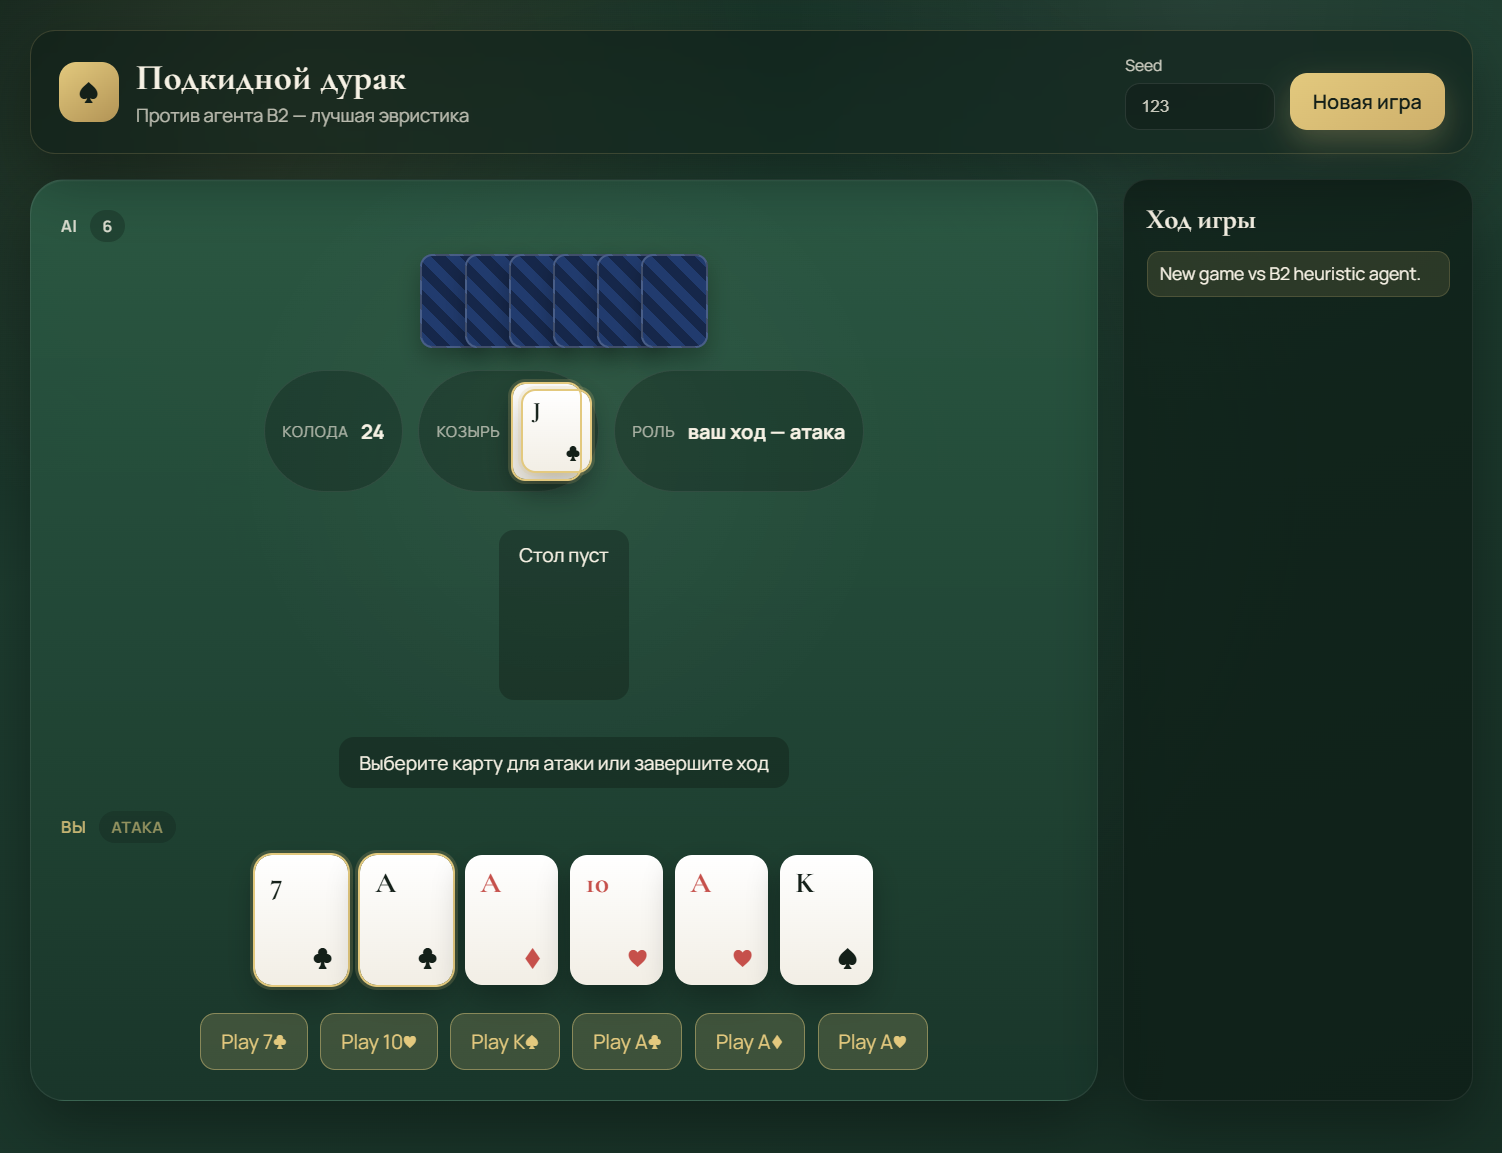
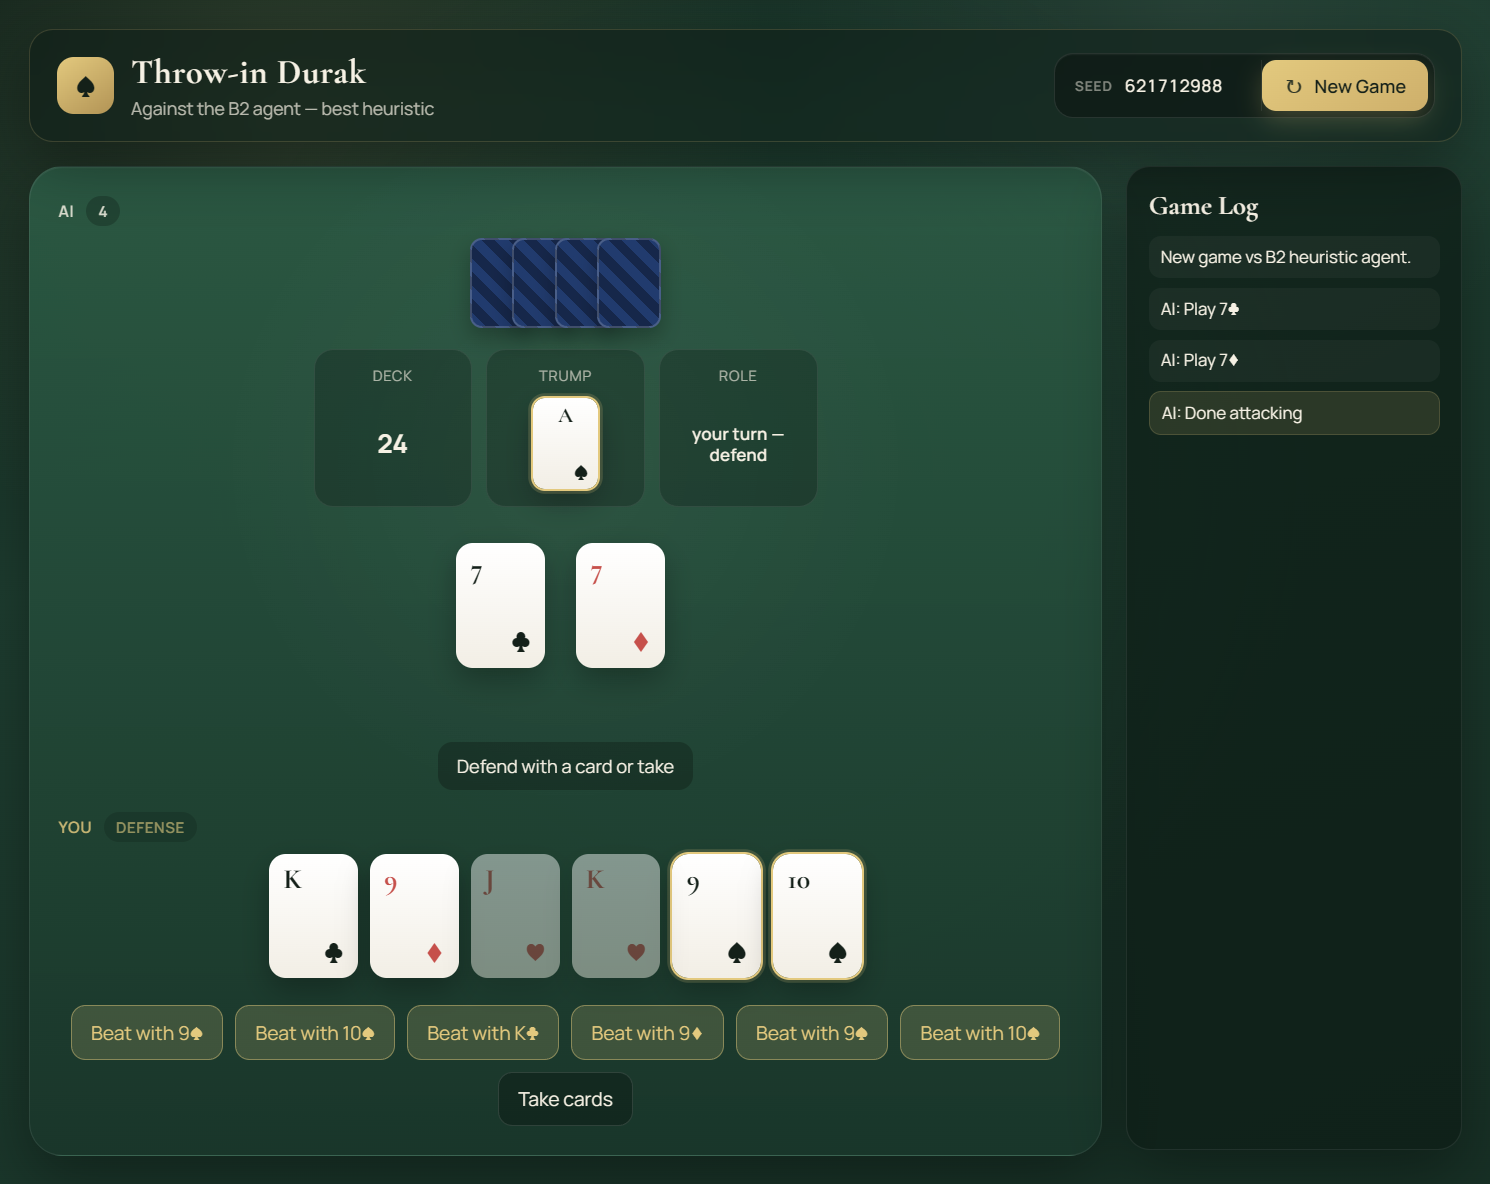
Update UI

diff --git a/durak/web/styles.css b/durak/web/styles.css
@@ -89,43 +89,116 @@ body {
 
 .topbar-actions {
   display: flex;
-  align-items: end;
-  gap: 12px;
+  align-items: center;
+}
+
+.game-controls {
+  display: flex;
+  align-items: stretch;
+  padding: 5px;
+  border-radius: 16px;
+  background: rgba(0, 0, 0, 0.32);
+  border: 1px solid rgba(255, 255, 255, 0.1);
+  box-shadow: inset 0 1px 0 rgba(255, 255, 255, 0.04);
 }
 
 .seed-field {
   display: flex;
-  flex-direction: column;
-  gap: 6px;
-  font-size: 0.78rem;
-  opacity: 0.8;
+  align-items: center;
+  gap: 10px;
+  flex: 0 1 auto;
+  min-width: 0;
+  padding: 0 14px 0 12px;
+  border-right: 1px solid rgba(255, 255, 255, 0.08);
+}
+
+.seed-label {
+  font-size: 0.7rem;
+  font-weight: 600;
+  text-transform: uppercase;
+  letter-spacing: 0.08em;
+  color: rgba(247, 241, 227, 0.5);
+  white-space: nowrap;
+  flex-shrink: 0;
 }
 
 .seed-field input {
-  width: 120px;
-  padding: 10px 12px;
-  border-radius: 12px;
-  border: 1px solid rgba(255, 255, 255, 0.12);
-  background: rgba(0, 0, 0, 0.25);
+  width: 11ch;
+  min-width: 11ch;
+  max-width: 16ch;
+  padding: 11px 0;
+  border: none;
+  border-radius: 0;
+  background: transparent;
   color: var(--cream);
+  font: inherit;
+  font-size: 0.9rem;
+  font-weight: 500;
+  font-variant-numeric: tabular-nums;
+  letter-spacing: 0.01em;
+}
+
+.seed-field input::placeholder {
+  color: rgba(247, 241, 227, 0.28);
+  font-weight: 400;
+}
+
+.seed-field input:focus {
+  outline: none;
+}
+
+.seed-field input:focus-visible {
+  outline: none;
+}
+
+.game-controls:focus-within {
+  border-color: rgba(232, 200, 114, 0.35);
+  box-shadow:
+    inset 0 1px 0 rgba(255, 255, 255, 0.04),
+    0 0 0 3px rgba(232, 200, 114, 0.12);
 }
 
 .btn {
+  display: inline-flex;
+  align-items: center;
+  justify-content: center;
+  gap: 8px;
   border: none;
-  border-radius: 14px;
-  padding: 12px 18px;
+  border-radius: 12px;
+  padding: 11px 18px;
   font: inherit;
   font-weight: 600;
+  font-size: 0.95rem;
   cursor: pointer;
-  transition: transform 0.15s ease, box-shadow 0.15s ease;
+  transition: transform 0.15s ease, box-shadow 0.15s ease, filter 0.15s ease;
+  white-space: nowrap;
 }
 
 .btn:hover { transform: translateY(-1px); }
 
+.btn:active {
+  transform: translateY(0);
+}
+
+.btn-icon {
+  display: grid;
+  place-items: center;
+  width: 18px;
+  height: 18px;
+  font-size: 1.05rem;
+  line-height: 1;
+  opacity: 0.85;
+}
+
 .btn-primary {
   background: linear-gradient(145deg, var(--gold), #d4ae5f);
   color: var(--ink);
-  box-shadow: 0 10px 24px rgba(232, 200, 114, 0.25);
+  box-shadow: 0 8px 20px rgba(232, 200, 114, 0.22);
+}
+
+.btn-primary:hover {
+  filter: brightness(1.04);
+  box-shadow: 0 10px 24px rgba(232, 200, 114, 0.3);
 }
 
 .table-area {
@@ -194,27 +267,60 @@ body {
 }
 
 .info-strip {
-  display: flex;
+  display: grid;
+  grid-template-columns: repeat(3, minmax(108px, 1fr));
   gap: 12px;
-  flex-wrap: wrap;
-  justify-content: center;
+  width: min(100%, 420px);
 }
 
 .info-pill {
-  display: flex;
+  display: grid;
+  grid-template-rows: 1.25rem 76px;
+  gap: 8px;
   align-items: center;
-  gap: 10px;
-  padding: 10px 14px;
-  border-radius: 999px;
+  justify-items: center;
+  padding: 12px 14px 14px;
+  border-radius: 16px;
   background: rgba(0, 0, 0, 0.22);
   border: 1px solid rgba(255, 255, 255, 0.08);
+  text-align: center;
 }
 
 .info-pill .label {
+  display: flex;
+  align-items: center;
+  justify-content: center;
+  width: 100%;
+  height: 1.25rem;
   font-size: 0.75rem;
   opacity: 0.65;
   text-transform: uppercase;
   letter-spacing: 0.06em;
+  line-height: 1;
+}
+
+.info-pill .value {
+  display: flex;
+  align-items: center;
+  justify-content: center;
+  width: 100%;
+  height: 76px;
+  margin: 0;
+  font-size: 1.35rem;
+  font-weight: 700;
+  line-height: 1.2;
+}
+
+.info-pill.role-pill .value {
+  font-size: 0.88rem;
+  font-weight: 600;
+  letter-spacing: 0.01em;
+  line-height: 1.25;
+  padding: 0 4px;
+}
+
+.info-pill .trump-value {
+  height: 76px;
 }
 
 .battle-table {
@@ -439,4 +545,31 @@ body {
 
   .app { padding: 12px; }
   .table-area { min-height: auto; padding: 16px; }
+
+  .topbar {
+    flex-direction: column;
+    align-items: stretch;
+    gap: 14px;
+  }
+
+  .topbar-actions {
+    justify-content: stretch;
+  }
+
+  .game-controls {
+    width: 100%;
+  }
+
+  .seed-field {
+    flex: 1;
+  }
+
+  .seed-field input {
+    width: 100%;
+    min-width: 0;
+  }
+
+  .btn-primary {
+    flex-shrink: 0;
+  }
 }

diff --git a/durak/web/index.html b/durak/web/index.html
@@ -21,11 +21,16 @@
         </div>
       </div>
       <div class="topbar-actions">
-        <label class="seed-field">
-          Seed
-          <input id="seed" type="number" min="0" placeholder="random">
-        </label>
-        <button id="new-game" class="btn btn-primary">New Game</button>
+        <div class="game-controls">
+          <label class="seed-field">
+            <span class="seed-label">Seed</span>
+            <input id="seed" type="text" inputmode="numeric" placeholder="Random" autocomplete="off" spellcheck="false">
+          </label>
+          <button id="new-game" class="btn btn-primary" type="button">
+            <span class="btn-icon" aria-hidden="true">↻</span>
+            New Game
+          </button>
+        </div>
       </div>
     </header>
 
@@ -42,15 +47,15 @@
         <div class="info-strip">
           <div class="info-pill">
             <span class="label">Deck</span>
-            <strong id="deck-count">24</strong>
+            <strong id="deck-count" class="value">24</strong>
           </div>
           <div class="info-pill trump-pill">
             <span class="label">Trump</span>
-            <div id="trump-card" class="card trump-card mini"></div>
+            <div id="trump-card" class="value trump-value"></div>
           </div>
-          <div class="info-pill">
+          <div class="info-pill role-pill">
             <span class="label">Role</span>
-            <strong id="role">—</strong>
+            <p id="role" class="value">—</p>
           </div>
         </div>
 

diff --git a/durak/web/app.js b/durak/web/app.js
@@ -138,10 +138,28 @@ async function api(path, options = {}) {
   return res.json();
 }
 
+function randomSeed() {
+  const buf = new Uint32Array(1);
+  crypto.getRandomValues(buf);
+  return buf[0];
+}
+
+function resolveSeed(raw) {
+  if (!raw) return { seed: randomSeed(), random: true };
+  const n = Number(raw);
+  if (!Number.isFinite(n) || n < 0) return { seed: randomSeed(), random: true };
+  return { seed: Math.trunc(n), random: false };
+}
+
 async function newGame() {
-  const seedRaw = $('#seed').value.trim();
-  const body = seedRaw ? { seed: Number(seedRaw) } : {};
-  const state = await api('/api/new', { method: 'POST', body: JSON.stringify(body) });
+  const input = $('#seed');
+  const { seed, random } = resolveSeed(input.value.trim());
+  const state = await api('/api/new', {
+    method: 'POST',
+    body: JSON.stringify({ seed }),
+  });
+  if (state.seed != null) input.value = String(state.seed);
+  else if (random) input.value = String(seed);
   render(state);
 }
 

diff --git a/durak/src/web_server.cpp b/durak/src/web_server.cpp
@@ -1,8 +1,10 @@
 #include <cstdlib>
 #include <cstring>
+#include <chrono>
 #include <mutex>
 #include <string>
 
+#include "eval.hpp"
 #include "httplib.h"
 #include "play_session.hpp"
 
@@ -13,13 +15,20 @@ namespace {
 std::mutex g_mtx;
 PlaySession g_session;
 
-std::uint64_t parse_seed(const std::string& body) {
+bool try_parse_seed(const std::string& body, std::uint64_t& seed) {
     const char* key = "\"seed\"";
     const std::size_t pos = body.find(key);
-    if (pos == std::string::npos) return 0;
+    if (pos == std::string::npos) return false;
     const std::size_t colon = body.find(':', pos);
-    if (colon == std::string::npos) return 0;
-    return std::strtoull(body.c_str() + colon + 1, nullptr, 10);
+    if (colon == std::string::npos) return false;
+    seed = std::strtoull(body.c_str() + colon + 1, nullptr, 10);
+    return true;
+}
+
+std::uint64_t fresh_seed() {
+    const auto t = std::chrono::high_resolution_clock::now().time_since_epoch().count();
+    static std::uint64_t ctr = 0;
+    return splitmix(static_cast<std::uint64_t>(t) ^ (++ctr * 0x9E3779B97F4A7C15ull)) & 0xFFFFFFFFu;
 }
 
 int parse_index(const std::string& body) {
@@ -52,7 +61,9 @@ int main(int argc, char** argv) {
 
     svr.Post("/api/new", [](const httplib::Request& req, httplib::Response& res) {
         std::lock_guard lock(g_mtx);
-        g_session.new_game(parse_seed(req.body), 0);
+        std::uint64_t seed = 0;
+        if (!try_parse_seed(req.body, seed)) seed = fresh_seed();
+        g_session.new_game(seed, 0);
         res.set_content(g_session.to_json(), "application/json; charset=utf-8");
     });
 

diff --git a/durak/src/play_session.cpp b/durak/src/play_session.cpp
@@ -16,9 +16,10 @@ constexpr int MAX_BATTLES = 4000;
 
 void PlaySession::new_game(std::uint64_t seed, int human_seat) {
     human_ = human_seat & 1;
-    st_ = durak::new_game(seed);
+    deck_seed_ = seed ? seed : 1;
+    st_ = durak::new_game(deck_seed_);
     st_.attacker = first_attacker(st_);
-    rng_ = Rng(seed ? seed + 1 : 1);
+    rng_ = Rng(deck_seed_ + 1);
     in_battle_ = false;
     battle_took_ = false;
     step_ = Step::BetweenBattles;
@@ -311,6 +312,7 @@ std::string PlaySession::to_json() const {
 
     std::ostringstream os;
     os << '{';
+    os << "\"seed\":" << deck_seed_ << ',';
     os << "\"trump\":" << card_json(trump) << ',';
     os << "\"deck\":" << st_.deck_count << ',';
     os << "\"youAttack\":" << (st_.attacker == human_ ? "true" : "false") << ',';

diff --git a/durak/include/play_session.hpp b/durak/include/play_session.hpp
@@ -52,6 +52,7 @@ private:
     Observation human_obs_{};
     std::optional<GameResult> result_{};
     std::vector<std::string> log_;
+    std::uint64_t deck_seed_ = 0;
 };
 
 }  // namespace durak
